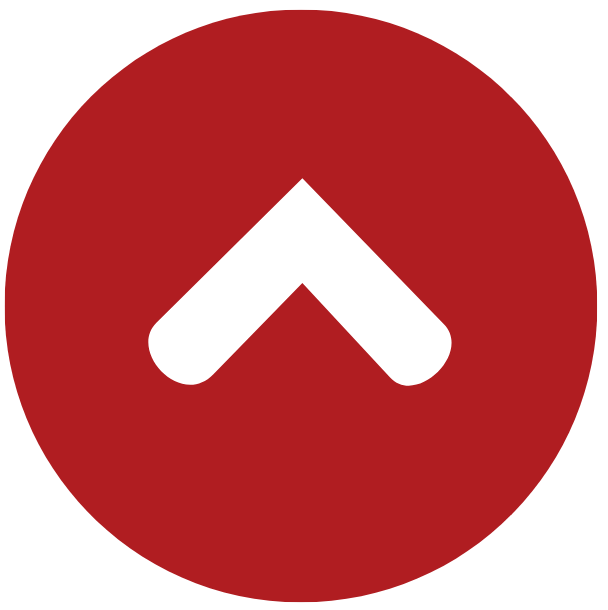
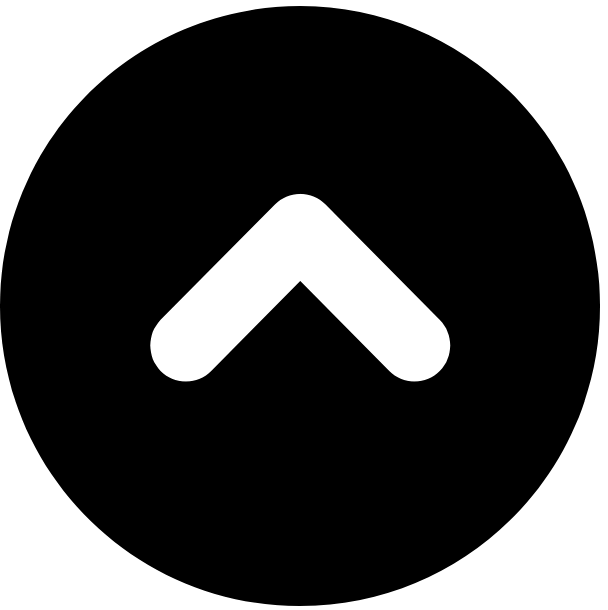
Updated files

diff --git a/index.html b/index.html
@@ -152,8 +152,8 @@
       cursor: pointer;
     }
     body.fc-on .tooltip-text {
-      background: #b01d21;
-      color: #ffffff;
+      background: #e4e2d8;
+      color: #000;
       padding: 1px 5px;
     }
     body.fc-on .tooltip-arrow {
@@ -193,8 +193,8 @@
     }
 
     body.fc-on .key-highlight {
-      background-color: #b01d21;
-      color: #fff;
+      background-color: #e4e2d8;
+      color: #000;
       padding: 1px 2px;
     }
 
@@ -205,7 +205,7 @@
     }
 
     body.fc-on .key-highlight-link {
-      cursor: pointer;
+      cursor: help;
       pointer-events: auto;
     }
 
@@ -229,8 +229,8 @@
     }
 
     body.fc-on .key-doc-text {
-      background-color: #b01d21;
-      color: #fff;
+      background-color: #e4e2d8;
+      color: #000;
       border-radius: 4px;
       padding: 1px 2px;
     }
@@ -247,7 +247,7 @@
       vertical-align: -0.05em;
       margin-left: 3px;
       mix-blend-mode: multiply;
-      filter: brightness(0) saturate(100%) invert(18%) sepia(96%) saturate(2487%) hue-rotate(344deg) brightness(85%) contrast(107%);
+      filter: brightness(0);
     }
 
     .email-icon {
@@ -360,10 +360,15 @@
 
     /* Fact-check box */
     .fc-box {
+      display: none;
       border: 1px solid #d8d7d0;
       border-radius: 4px;
       margin: 20px 0;
       overflow: hidden;
+    }
+
+    body.fc-on .fc-box {
+      display: block;
     }
 
     .fc-box-header {
@@ -416,6 +421,14 @@
       line-height: 1.75;
       color: #1a1a1a;
     }
+
+    /* Help cursor on interactive elements */
+    body.fc-on .key-highlight:hover,
+    body.fc-on .key-doc:hover,
+    body.fc-on .tooltip-trigger:hover,
+    body.fc-on .fc-box-header:hover {
+      cursor: help;
+    }
   </style>
 </head>
 <body>
@@ -432,8 +445,7 @@
 
   <article class="article">
     <p>After the Russian annexation of Crimea in 2014, a new breed of elite Russians rushed in. Multiple media outlets at the time reported rumors that
-      <span class="key-highlight" tabindex="0"><a href="https://www.occrp.org/en/people/andrei-kostin/page/1" class="key-highlight-link" target="_blank" rel="noopener">Andrei Kostin</a>
-        <span class="bubble">
+      <span class="key-highlight" tabindex="0"><a href="https://www.occrp.org/en/people/andrei-kostin/page/1" class="key-highlight-link" target="_blank" rel="noopener">Andrei Kostin</a>        <span class="bubble">
           <img src="andrei-portrait.png" alt="Andrei Kostin" class="bubble-portrait">
           <span class="bubble-info">
             <a href="https://www.occrp.org/en/people/andrei-kostin/page/1" class="bubble-name" target="_blank" rel="noopener">Andrei Kostin</a>
@@ -446,8 +458,7 @@
     <p>"Winery executives won't reveal who it belongs to, although the Russian media have speculated that it's the president of one of Russia's most powerful banks," <a href="#">wrote Meinenger's Wine Business International in 2015</a>.</p>
 
     <p>A grape vine at Alma had been personally planted by
-      <span class="key-highlight" tabindex="0"><a href="https://www.occrp.org/en/people/vladimir-putin/page/1" class="key-highlight-link" target="_blank" rel="noopener">Vladimir Putin</a>
-        <span class="bubble">
+      <span class="key-highlight" tabindex="0"><a href="https://www.occrp.org/en/people/vladimir-putin/page/1" class="key-highlight-link" target="_blank" rel="noopener">Vladimir Putin</a>        <span class="bubble">
           <img src="putin-portrait.jpg" alt="Vladimir Putin" class="bubble-portrait">
           <span class="bubble-info">
             <a href="https://www.occrp.org/en/people/vladimir-putin/page/1" class="bubble-name" target="_blank" rel="noopener">Vladimir Putin</a>
@@ -457,21 +468,20 @@
       </span>,
       the article reported, before noting that the winery's Petite Arvine white was a "pleasant surprise."</p>
 
-    <div class="fc-box" id="fc-box-1">
+    <div class="fc-box open" id="fc-box-1">
       <div class="fc-box-header" onclick="toggleFcBox('fc-box-1')">
         <svg class="fc-box-arrow" viewBox="0 0 24 24" fill="none" xmlns="http://www.w3.org/2000/svg">
           <path d="M6 9L12 15L18 9" stroke="#1a1a1a" stroke-width="2.5" stroke-linecap="round" stroke-linejoin="round"/>
         </svg>
         <span class="fc-box-title">This is an example of a fact-checking box</span>
-      </div>
+              </div>
       <div class="fc-box-body">
         <p>Lorem ipsum dolor sit amet, consectetur adipiscing elit. Aliquam <b>volutpat vel neque vel iaculis</b>. Quisque maximus, quam vel ullamcorper pretium, felis turpis porta ipsum, <a href="#">id ornare lectus tortor nec felis</a>. Quisque semper nunc eget leo gravida vestibulum. Phasellus ligula dolor, molestie a odio nec, fermentum pellentesque enim. Curabitur sed dolor at diam condimentum placerat. Nullam sagittis est ut rhoncus dictum. Vestibulum accumsan sem elit, vitae viverra nibh congue vel. Vivamus odio purus, convallis ut ullamcorper nec, pretium eget mauris. Pellentesque varius, turpis vel tincidunt ultricies, lacus urna tincidunt sem, at gravida ligula augue eu purus. Nam convallis ut purus vel suscipit.</p>
       </div>
     </div>
 
     <p>While the links to
-      <span class="key-highlight" tabindex="0"><a href="https://www.occrp.org/en/people/andrei-kostin/page/1" class="key-highlight-link" target="_blank" rel="noopener">Kostin</a>
-        <span class="bubble">
+      <span class="key-highlight" tabindex="0"><a href="https://www.occrp.org/en/people/andrei-kostin/page/1" class="key-highlight-link" target="_blank" rel="noopener">Kostin</a>        <span class="bubble">
           <img src="andrei-portrait.png" alt="Andrei Kostin" class="bubble-portrait">
           <span class="bubble-info">
             <a href="https://www.occrp.org/en/people/andrei-kostin/page/1" class="bubble-name" target="_blank" rel="noopener">Andrei Kostin</a>